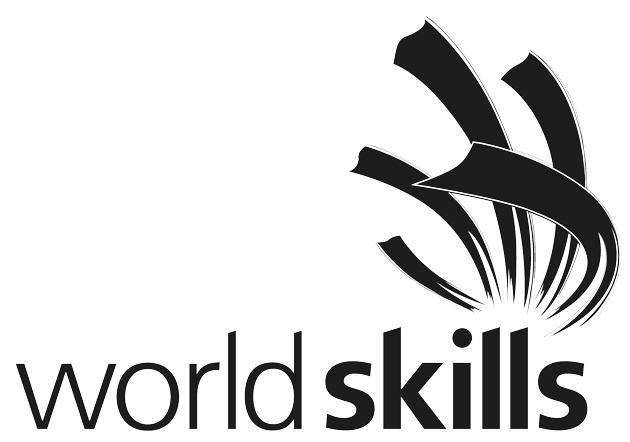
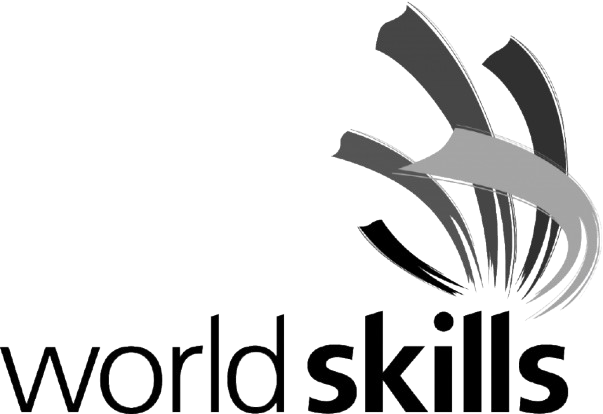
로그인 화면 삽입

Changed region(s): [[0.5075, 0.0, 1.0, 1.0], [0.0, 0.7536, 0.4776, 1.0]]

diff --git a/app/main.js b/app/main.js
@@ -1,9 +1,15 @@
+// ✅ /app/main.js (좌우 분할 UI 및 이미지 변경 적용)
 import { useRouter } from "expo-router";
 import { useContext, useState } from "react";
 import {
   Alert,
+  Image,
   Platform,
-  StyleSheet, Text, TextInput, TouchableOpacity, View,
+  StyleSheet,
+  Text,
+  TextInput,
+  TouchableOpacity,
+  View,
 } from "react-native";
 import { StudentInfoContext } from "../context/StudentInfoContext";
 
@@ -15,7 +21,7 @@ export default function MainScreen() {
   const router = useRouter();
   const { saveStudentInfo } = useContext(StudentInfoContext);
 
-  const [role, setRole] = useState("student"); // "student" or "teacher"
+  const [role, setRole] = useState("student");
   const [id, setId] = useState("");
   const [password, setPassword] = useState("");
 
@@ -41,9 +47,8 @@ export default function MainScreen() {
 
       Alert.alert("✅ 로그인 성공");
 
-      // ✅ Context에 저장
       if (role === "student") {
-        saveStudentInfo(data.user.name, data.user.category); // 핵심 수정
+        saveStudentInfo(data.user.name, data.user.category);
         router.push("/student");
       } else {
         router.push("/teacher");
@@ -55,65 +60,107 @@ export default function MainScreen() {
     }
   };
 
+  const imageSource = id && password
+    ? require("../assets/world2.png")
+    : require("../assets/world1.png");
+
   return (
     <View style={styles.container}>
-      <Text style={styles.title}>📚 간편 로그인</Text>
-
-      <View style={styles.selector}>
-        <TouchableOpacity
-          style={[styles.roleBtn, role === "student" && styles.activeBtn]}
-          onPress={() => setRole("student")}
-        >
-          <Text style={styles.roleText}>학생</Text>
-        </TouchableOpacity>
-        <TouchableOpacity
-          style={[styles.roleBtn, role === "teacher" && styles.activeBtn]}
-          onPress={() => setRole("teacher")}
-        >
-          <Text style={styles.roleText}>선생님</Text>
-        </TouchableOpacity>
+      <View style={styles.leftPane}>
+        <Image source={imageSource} style={styles.image} />
       </View>
 
-      <TextInput
-        style={styles.input}
-        placeholder="아이디"
-        value={id}
-        onChangeText={setId}
-      />
-      <TextInput
-        style={styles.input}
-        placeholder="비밀번호"
-        secureTextEntry
-        value={password}
-        onChangeText={setPassword}
-      />
+      <View style={styles.rightPane}>
+        <Text style={styles.title}>📚 간편 로그인</Text>
 
-      <TouchableOpacity style={styles.loginBtn} onPress={handleLogin}>
-        <Text style={styles.loginText}>로그인</Text>
-      </TouchableOpacity>
+        <View style={styles.selector}>
+          <TouchableOpacity
+            style={[styles.roleBtn, role === "student" && styles.activeBtn]}
+            onPress={() => setRole("student")}
+          >
+            <Text style={styles.roleText}>학생</Text>
+          </TouchableOpacity>
+          <TouchableOpacity
+            style={[styles.roleBtn, role === "teacher" && styles.activeBtn]}
+            onPress={() => setRole("teacher")}
+          >
+            <Text style={styles.roleText}>선생님</Text>
+          </TouchableOpacity>
+        </View>
+
+        <TextInput
+          style={styles.input}
+          placeholder="아이디"
+          value={id}
+          onChangeText={setId}
+        />
+        <TextInput
+          style={styles.input}
+          placeholder="비밀번호"
+          secureTextEntry
+          value={password}
+          onChangeText={setPassword}
+        />
+
+        <TouchableOpacity style={styles.loginBtn} onPress={handleLogin}>
+          <Text style={styles.loginText}>로그인</Text>
+        </TouchableOpacity>
+      </View>
     </View>
   );
 }
 
 const styles = StyleSheet.create({
-  container: { flex: 1, padding: 20, justifyContent: "center", backgroundColor: "#f2f4f8" },
-  title: { fontSize: 24, fontWeight: "bold", textAlign: "center", marginBottom: 30 },
-  selector: { flexDirection: "row", justifyContent: "center", marginBottom: 20, gap: 10 },
+  container: {
+    flex: 1,
+    flexDirection: "row",
+    backgroundColor: "#f2f4f8",
+  },
+  leftPane: {
+    flex: 1,
+    backgroundColor: "#e3edf7",
+    justifyContent: "center",
+    alignItems: "center",
+  },
+  image: {
+    width: "80%",
+    height: "80%",
+    resizeMode: "contain",
+  },
+  rightPane: {
+    flex: 1,
+    justifyContent: "center",
+    padding: 40,
+    backgroundColor: "#fff",
+  },
+  title: {
+    fontSize: 24,
+    fontWeight: "bold",
+    textAlign: "center",
+    marginBottom: 30,
+  },
+  selector: {
+    flexDirection: "row",
+    justifyContent: "center",
+    marginBottom: 20,
+    gap: 10,
+  },
   roleBtn: {
     padding: 10,
     borderWidth: 1,
     borderColor: "#ccc",
     borderRadius: 6,
     minWidth: 80,
-    alignItems: "center"
+    alignItems: "center",
+    backgroundColor: "#f5f5f5",
   },
   activeBtn: {
     backgroundColor: "#5DBB9D",
-    borderColor: "#5DBB9D"
+    borderColor: "#5DBB9D",
   },
   roleText: {
     color: "#fff",
-    fontWeight: "bold"
+    fontWeight: "bold",
   },
   input: {
     backgroundColor: "#fff",
@@ -121,17 +168,17 @@ const styles = StyleSheet.create({
     borderRadius: 8,
     marginBottom: 16,
     borderWidth: 1,
-    borderColor: "#ccc"
+    borderColor: "#ccc",
   },
   loginBtn: {
-    backgroundColor: "#4CAF50",
+    backgroundColor: "#5DBB9D",
     padding: 14,
     borderRadius: 8,
-    alignItems: "center"
+    alignItems: "center",
   },
   loginText: {
     color: "white",
     fontWeight: "bold",
-    fontSize: 16
-  }
+    fontSize: 16,
+  },
 });
